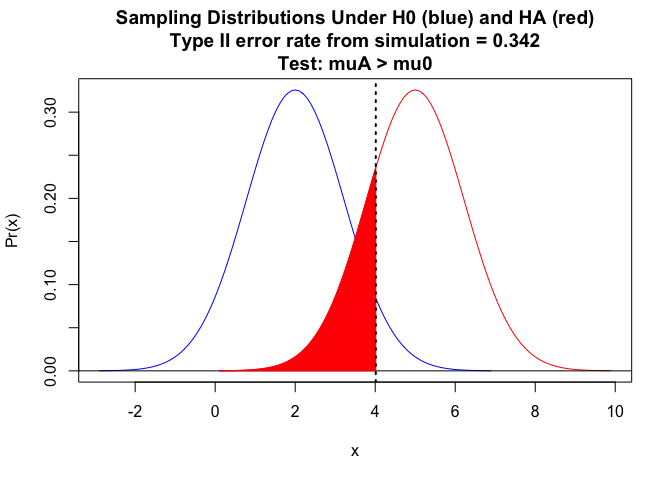
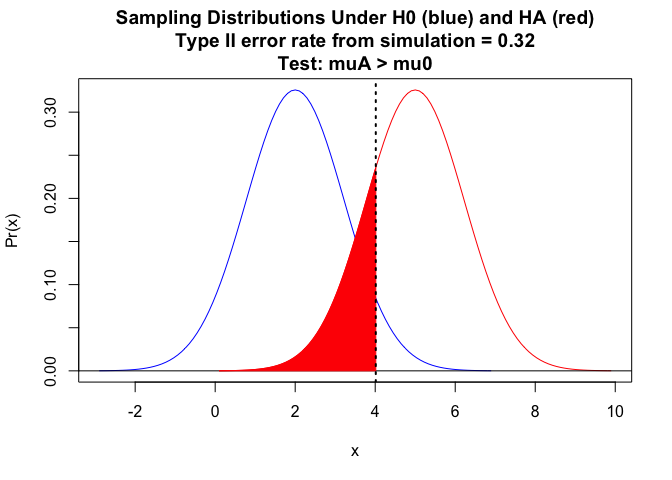
mod 11

Changed region(s): [[0.25, 0.0625, 0.8125, 0.125]]

diff --git a/module-11/module-11.md b/module-11/module-11.md
@@ -265,7 +265,12 @@ Explore this function using different values of *μ*<sub>0</sub>, *σ*, *n*, and
 Power
 -----
 
-Power is the probability of correctly rejecting a null hypothesis that is untrue. For a test that has a Type II error rate of *β*, the statistical power is defined, simply, as 1 − *β*. Power values of 0.8 or greater are considered high.
+Power is the **probability of correctly rejecting a null hypothesis that is untrue**. For a test that has a Type II error rate of *β*, the statistical power is defined, simply, as 1 − *β*. Power values of 0.8 or greater are considered high.
+
+Effect Size
+-----------
+
+The effect size is simply the **standardized difference between the means** of the two groups/distributions being compared. In our case |(*μ*<sub>0</sub> - *μ*<sub>*A*</sub>)|/*σ*.
 
 #### CHALLENGE:
 
@@ -310,4 +315,32 @@ Using the code below, which graphs the Type II error rate (*β*) and Power (1 
 +     sigma = slider(1, 10, initial = 3, step = 1), alpha = slider(0.01, 0.1, 
 +         initial = 0.05, step = 0.01), type = picker("two.sample", "paired", 
 +         "one.sample"), alternative = picker("two.sided", "one.sided"))
+```
+
+Graphical Depiction of Power
+----------------------------
+
+``` r
+> library(ggplot2)
+> library(manipulate)
+> power.plot <- function(sigma, muA, mu0, n, alpha) {
++     g <- ggplot(data.frame(mu = c(min(mu0 - 4 * sigma/sqrt(n), muA - 4 * sigma/sqrt(n)), 
++         max(mu0 + 4 * sigma/sqrt(n), muA + 4 * sigma/sqrt(n)))), aes(x = mu))
++     g <- g + stat_function(fun = dnorm, geom = "line", args = list(mean = mu0, 
++         sd = sigma/sqrt(n)), size = 1, col = "red")
++     g <- g + stat_function(fun = dnorm, geom = "line", args = list(mean = muA, 
++         sd = sigma/sqrt(n)), size = 1, col = "blue")
++     xcrit = mu0 + qnorm(1 - alpha) * sigma/sqrt(n)
++     g <- g + geom_vline(xintercept = xcrit, size = 1)
++     g <- g + geom_polygon(data = data.frame(cbind(x = c(xcrit, seq(from = xcrit, 
++         to = muA + 4 * sigma/sqrt(n), length.out = 100), muA + 4 * sigma/sqrt(n)), 
++         y = c(0, dnorm(seq(from = xcrit, to = muA + 4 * sigma/sqrt(n), length.out = 100), 
++             mean = muA, sd = sigma/sqrt(n)), 0))), aes(x = x, y = y))
++     g
++ }
+> 
+> manipulate(power.plot(sigma, muA, mu0, n, alpha), sigma = slider(1, 10, step = 1, 
++     initial = 4), muA = slider(-10, 10, step = 1, initial = 2), mu0 = slider(-10, 
++     10, step = 1, initial = 0), n = slider(1, 50, step = 1, initial = 16), alpha = slider(0.01, 
++     0.1, step = 0.01, initial = 0.05))
 ```
